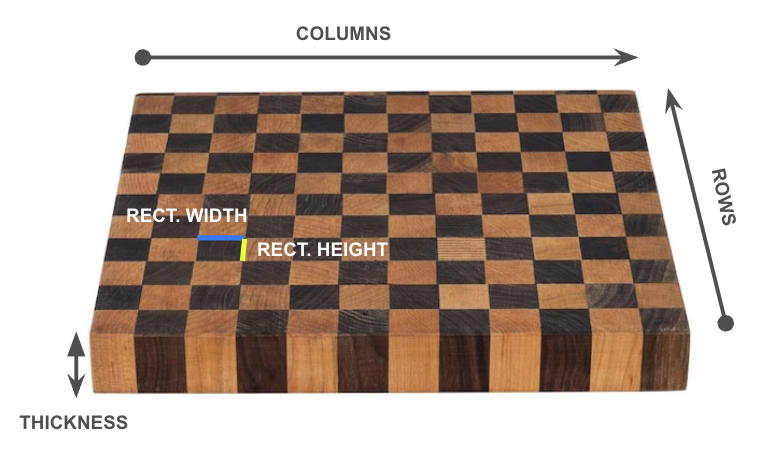
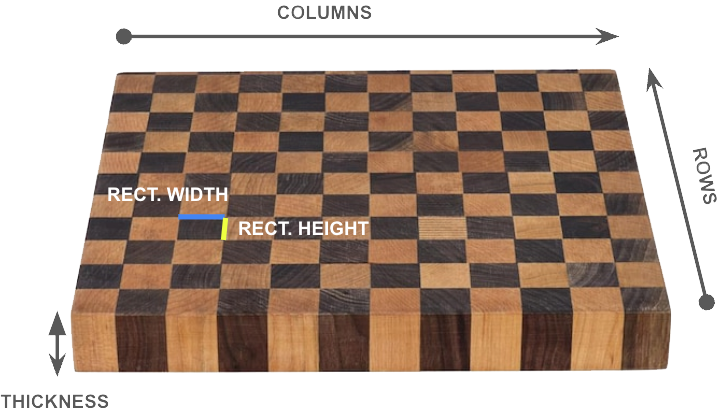
removed background for board image

diff --git a/index.html b/index.html
@@ -67,16 +67,16 @@
                   <button class="dropdown-item" type="button" id="purpleHeart2">Purple Heart</a>
                 </div>
               </div>
-              <div class="form-check">
-                <input class="form-check-input" type="checkbox" value="" id="flexCheckDefault">
-                <label class="form-check-label" for="flexCheckDefault">
-                  <strong>Banana for scale?</strong>
-                </label>
-              </div>
               </div>
               <div id="flexBox">
                 <img src="images/board-design-infoGraphic.png" id="boardDesignInfoGraphicImg"> <!-- image source: https://www.lowes.com/pd/Ruvati-Ruvati-17-x-16-x-2-in-thick-End-Grain-American-Walnut-and-Maple-Checkered-Butcher-Block-Solid-Wood-Cutting-Board-RVA2445CHK/5001962941 -->
               </div>
+            </div>
+            <div class="form-check">
+              <input class="form-check-input" type="checkbox" value="" id="flexCheckDefault">
+              <label class="form-check-label" for="flexCheckDefault">
+                <strong>Banana for scale?</strong>
+              </label>
             </div>
           </div>
           </div>

diff --git a/styles.css b/styles.css
@@ -135,9 +135,7 @@ label {
 }
 
 #boardDesignInfoGraphicImg {
-    width: 100%;
-    border: solid 2px #8ECAE6;
-    border-radius: 5px;
+    width: 90%;
     margin: 5px;
 }
 
